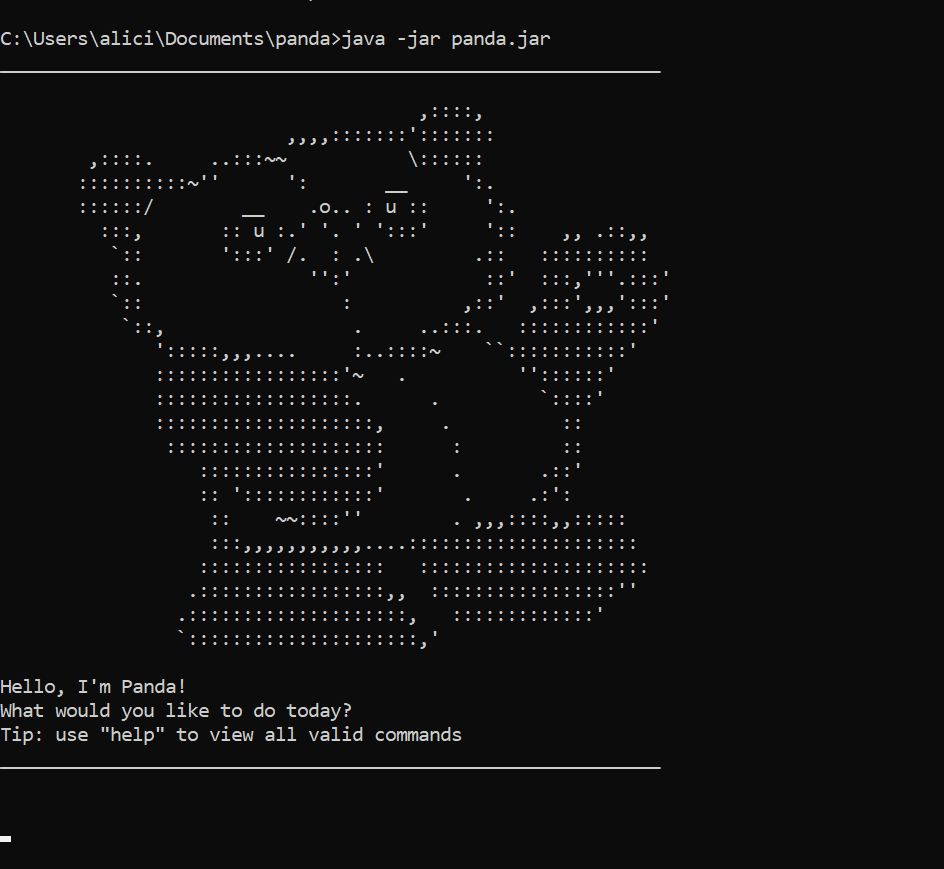
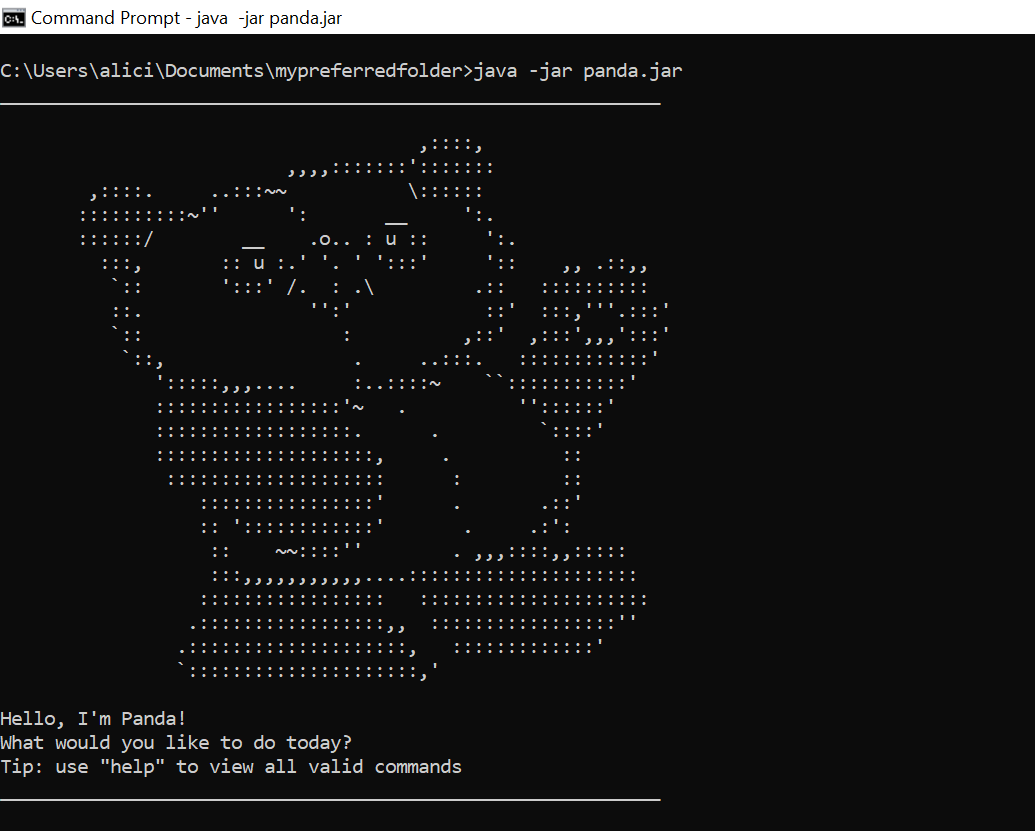
Edit README, update screenshot used

diff --git a/docs/README.md b/docs/README.md
@@ -4,8 +4,8 @@
 PANDA is a basic task manager that runs on a Command Line Interface (CLI).
 With PANDA, you can add, view and find things you need to do as well as 
 important deadlines and events. Finished a task? Great! Mark it as done. 
-Task no longer relevant? Delete it from the list. PANDA gives you a simple  
-way to maintain a list of your everyday tasks.
+Task no longer relevant? Delete it from the list. PANDA gives you a simple way to
+maintain a list of your everyday tasks.
 
 ## Table of Contents 
 1. [Quick Start](#quick-start)
@@ -32,14 +32,14 @@ way to maintain a list of your everyday tasks.
 1. Ensure you have Java 11 or above installed. You can verify this with the 
    command `java --version` in the CLI.
 2. Download the latest version of `panda.jar` from [here](https://github.com/aliciatay-zls/ip/releases) 
-(under `Assets`). Move the file to your preferred folder location.
+(under `Assets`). Move the file to your preferred folder. 
    
 ### First run
 1. Open the CLI and navigate to the folder your `panda.jar` is located at.
 2. Start the program with this command: `java -jar panda.jar`
-3. If set up successfully you should see this welcome page:
+3. A successful first run should show this welcome page:
 
-![CLI screenshot of successful set up](screenshot-quickstart.png)
+![CLI screenshot of successful run](screenshot-quickstart.png)
 
 ## Features
 
@@ -57,7 +57,7 @@ way to maintain a list of your everyday tasks.
 <br>
 
 ### Showing the help page: `help`
-Displays the list of commands, and their input formats.
+Displays the list of command words, and their input formats.
 <br><br>
 **Format:**&nbsp;`help` 
 <br><br>
@@ -96,9 +96,9 @@ Similar to adding a to-do task, this adds the given event to the list.
 
 **Notes:**
 - `/at` must be part of the command
-- `<timing>`, as in when the event is going to happen, is the suggested input 
+- `<timing>` (when the event is happening) is the suggested input 
   for this field, but you can enter any other type and number of details 
-  on the event
+  of the event
 <br><br>
   
 ### Adding a deadline: `deadline`
@@ -163,7 +163,7 @@ _condensed form_.
 <br><br>
 
 ### Marking a task as done: `done`
-Marks the task with the given index in the list with an 'X' to indicate
+Marks the task that has the given index in the list with an 'X', to indicate
 it is completed.
 <br><br>
 **Format:**&nbsp;`done <index>`
@@ -182,8 +182,8 @@ it is completed.
 <br>
 
 ### Finding tasks by keyword: `find`
-Displays _a new, numbered list_ of tasks that contain the given keyword,
-extracted from the main task list.
+Displays _a new, numbered list_ of tasks from the main list that contain
+the given keyword.
 <br><br>
 **Format:**&nbsp;`find <keyword>`
 
@@ -236,11 +236,11 @@ So if you don't see any messages about saving/loading, that's a good thing :D
 
 **Q: Where can I view this list of tasks outside of PANDA??**
 <br>
-**A:** You can find it in the `data` folder that should be automatically created the 
-first time you run PANDA. The file name is `tasks.txt`. Do note however that PANDA
+**A:** You can find it in the `data` folder that should be automatically created on the first run
+(in the same folder `panda.jar` is located). The file name is `tasks.txt`. Do note however that PANDA
 saves your tasks in a different format than is displayed when running the program.
 For example, if you followed all the example commands on this user guide in the 
-same order, opening `tasks.txt` will show something like this:
+same order, opening `tasks.txt` shows something like this:
 
     E | 0 | Panda Club Fundraising 2021 | 6.00 pm
     D | 0 | sign up for Bamboo Eating Contest | 2021-12-02 | 18:00
@@ -250,16 +250,16 @@ same order, opening `tasks.txt` will show something like this:
 ## Command Summary
 Command Word | Input Format
 ------------ | ------------
-`help` | `help`
-`todo` | `todo <task description>`
-`event` | `event <event description> /at <timing>`
-`deadline` | `deadline <deadline description> /by <yyyy-mm-dd> <HH:mm>`
-`list` | `list`
-`filter` | `filter yyyy-mm-dd`
-`done` | `done <index>`
-`find` | `find <keyword>`
-`delete` | `delete <index>`
-`bye` | `bye`
+help | `help`
+todo | `todo <task description>`
+event | `event <event description> /at <timing>`
+deadline | `deadline <deadline description> /by <yyyy-mm-dd> <HH:mm>`
+list | `list`
+filter | `filter yyyy-mm-dd`
+done | `done <index>`
+find | `find <keyword>`
+delete | `delete <index>`
+bye | `bye`
 
 <br>
 
